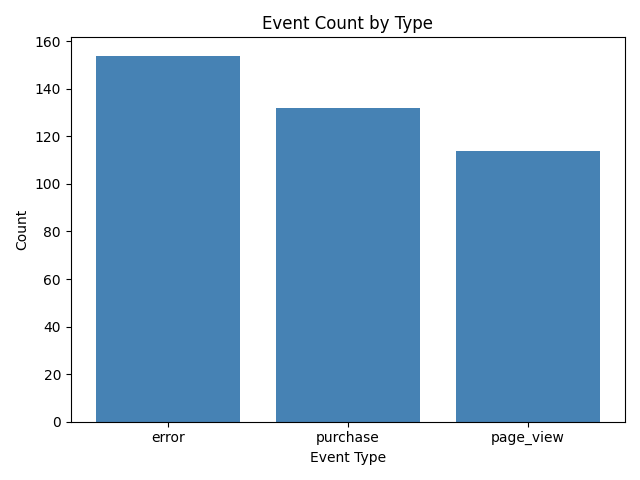
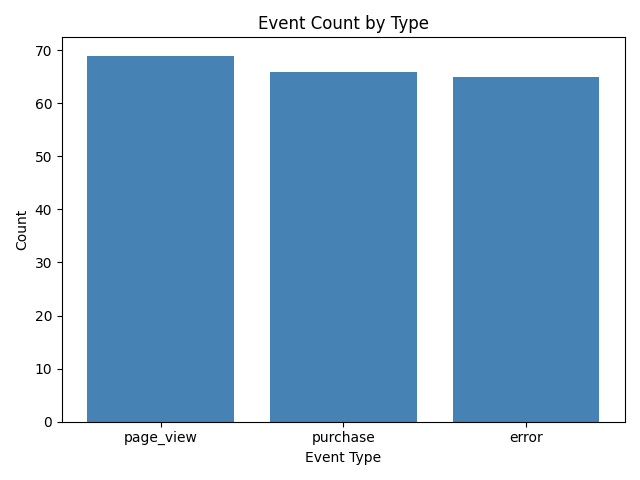
generator: randomize timestamps for realistic hourly distribution

diff --git a/generator/generate.py b/generator/generate.py
@@ -3,7 +3,7 @@ import psycopg2
 import random
 import time
 import os
-from datetime import datetime, timezone
+from datetime import datetime, timezone, timedelta
 
 DB_CONFIG = {
     "host": os.getenv("DB_HOST", "localhost"),
@@ -38,7 +38,7 @@ def generate_event():
     return {
         "event_type": event_type,
         "user_id": f"user_{random.randint(1, 20)}",
-        "timestamp": datetime.now(timezone.utc),
+        "timestamp": datetime.now(timezone.utc) - timedelta(minutes=random.randint(0, 180)),
         "metadata": METADATA[event_type](),
     }
 
